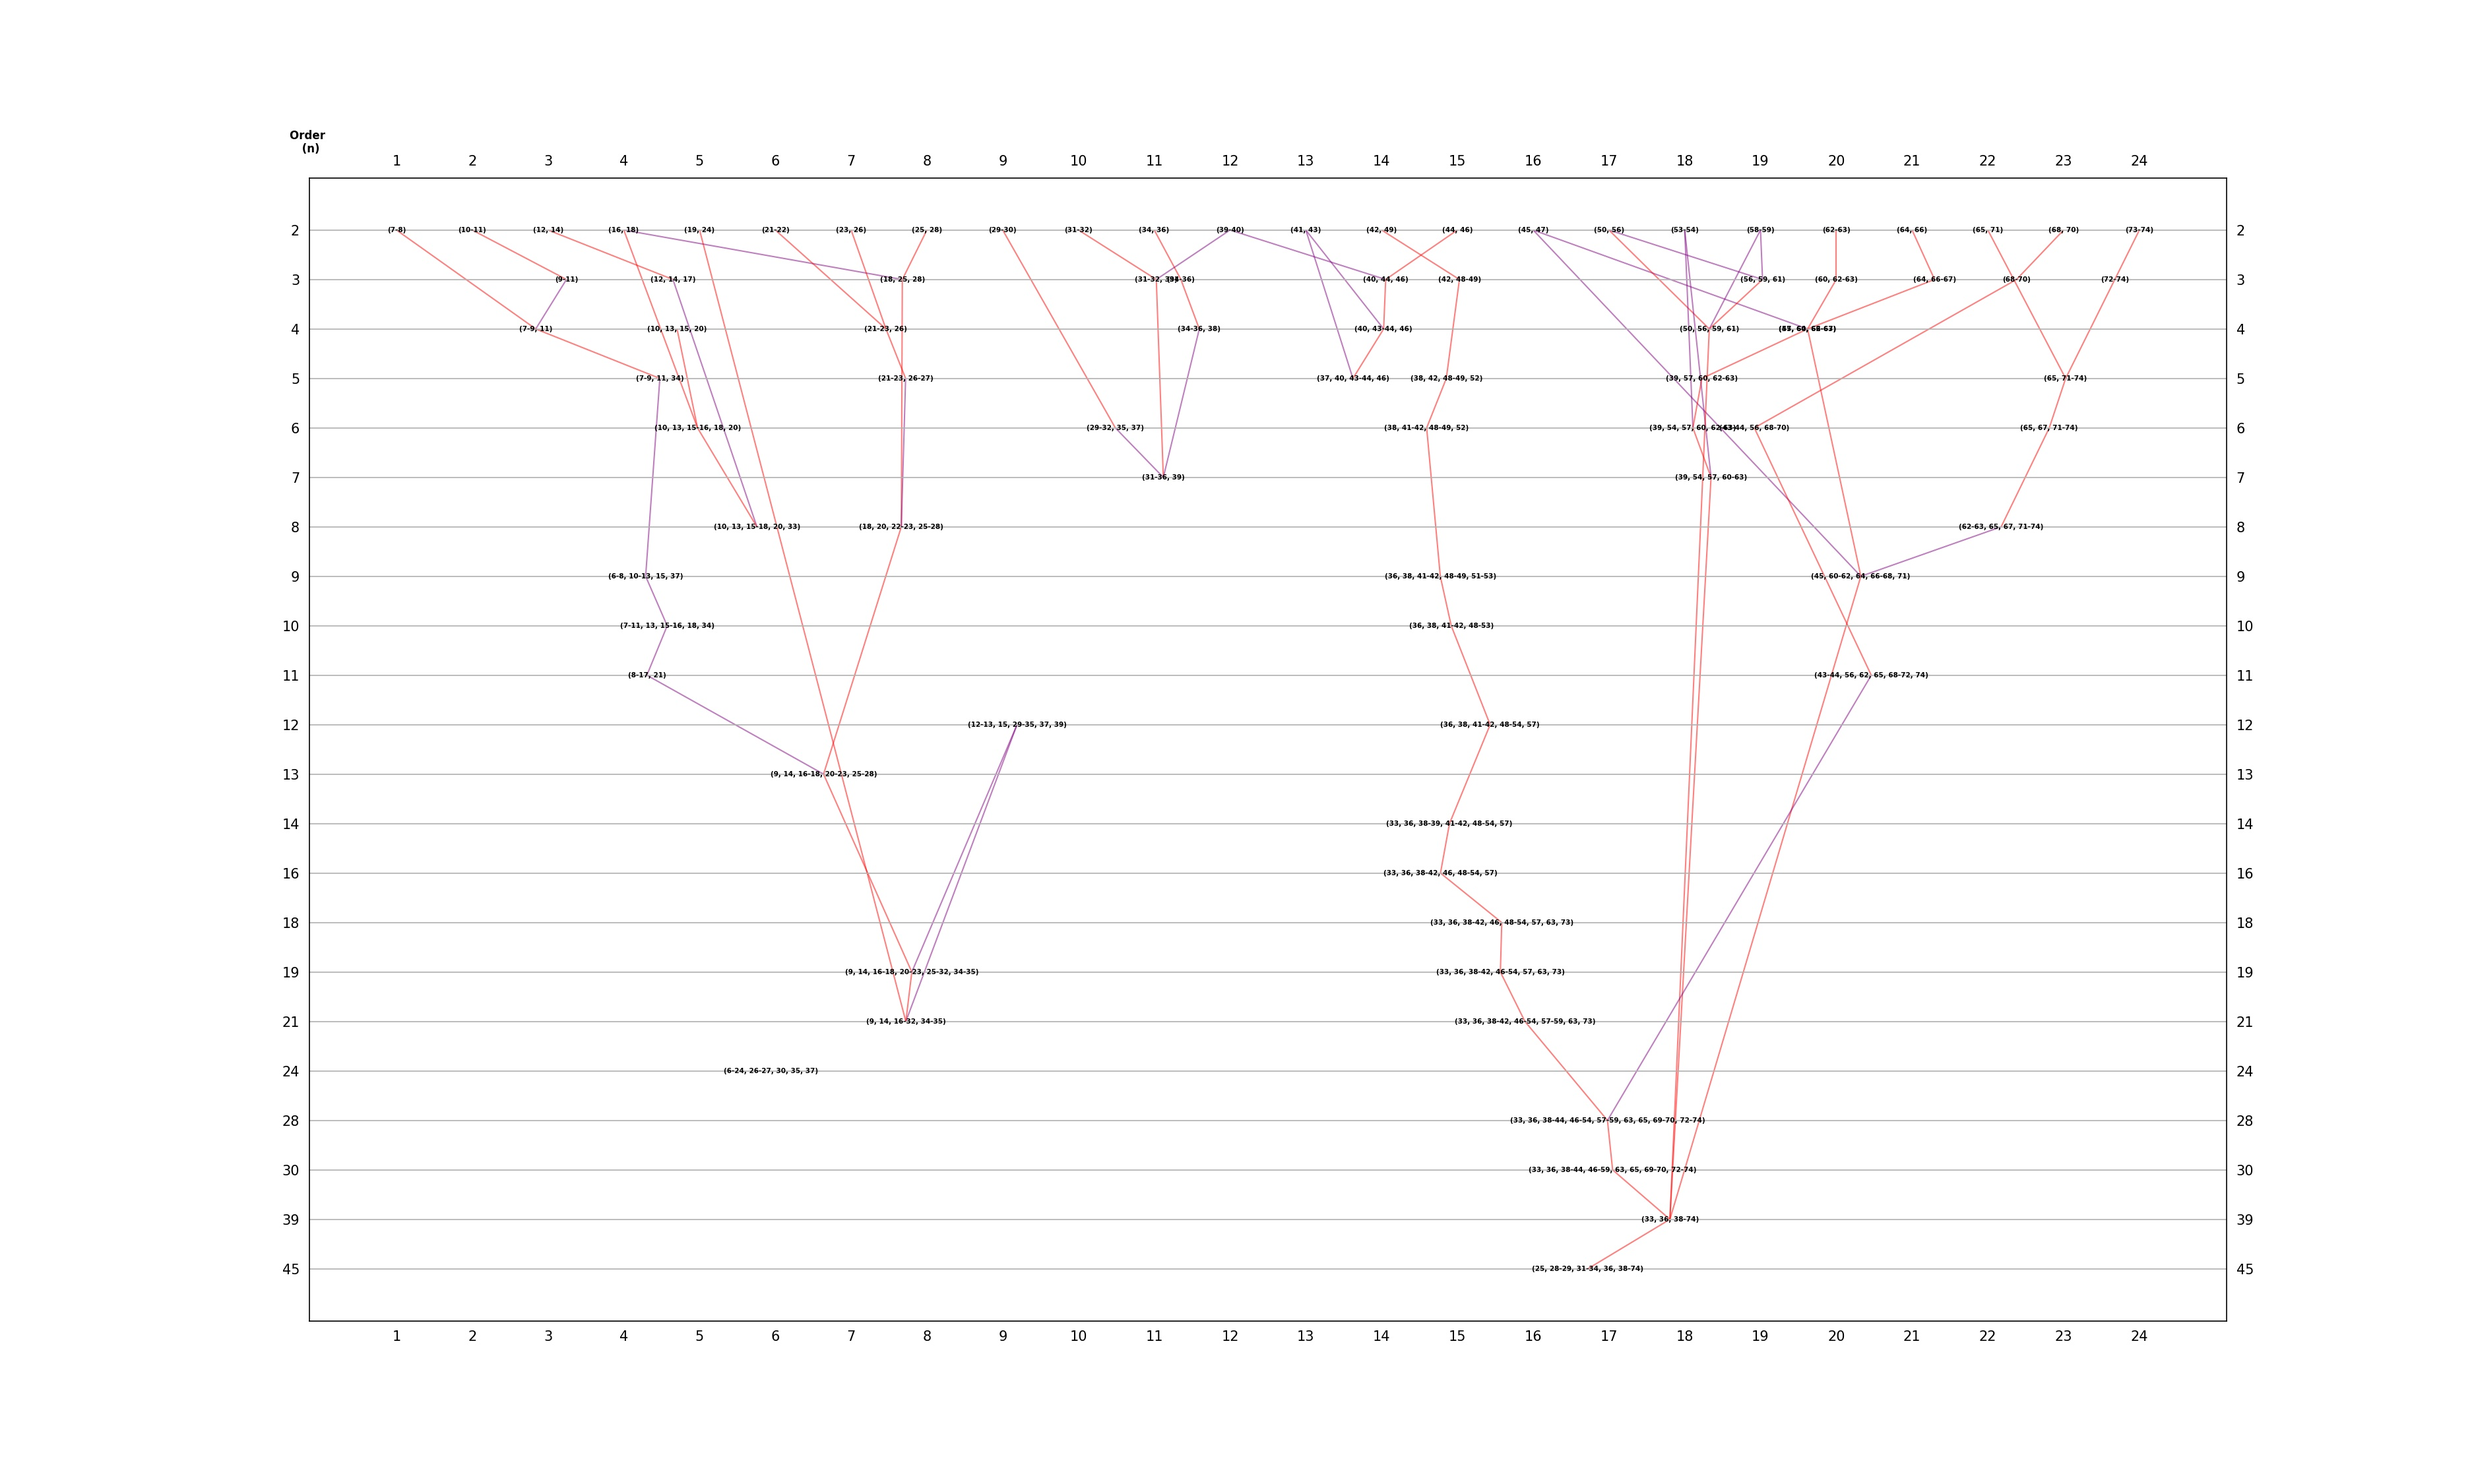
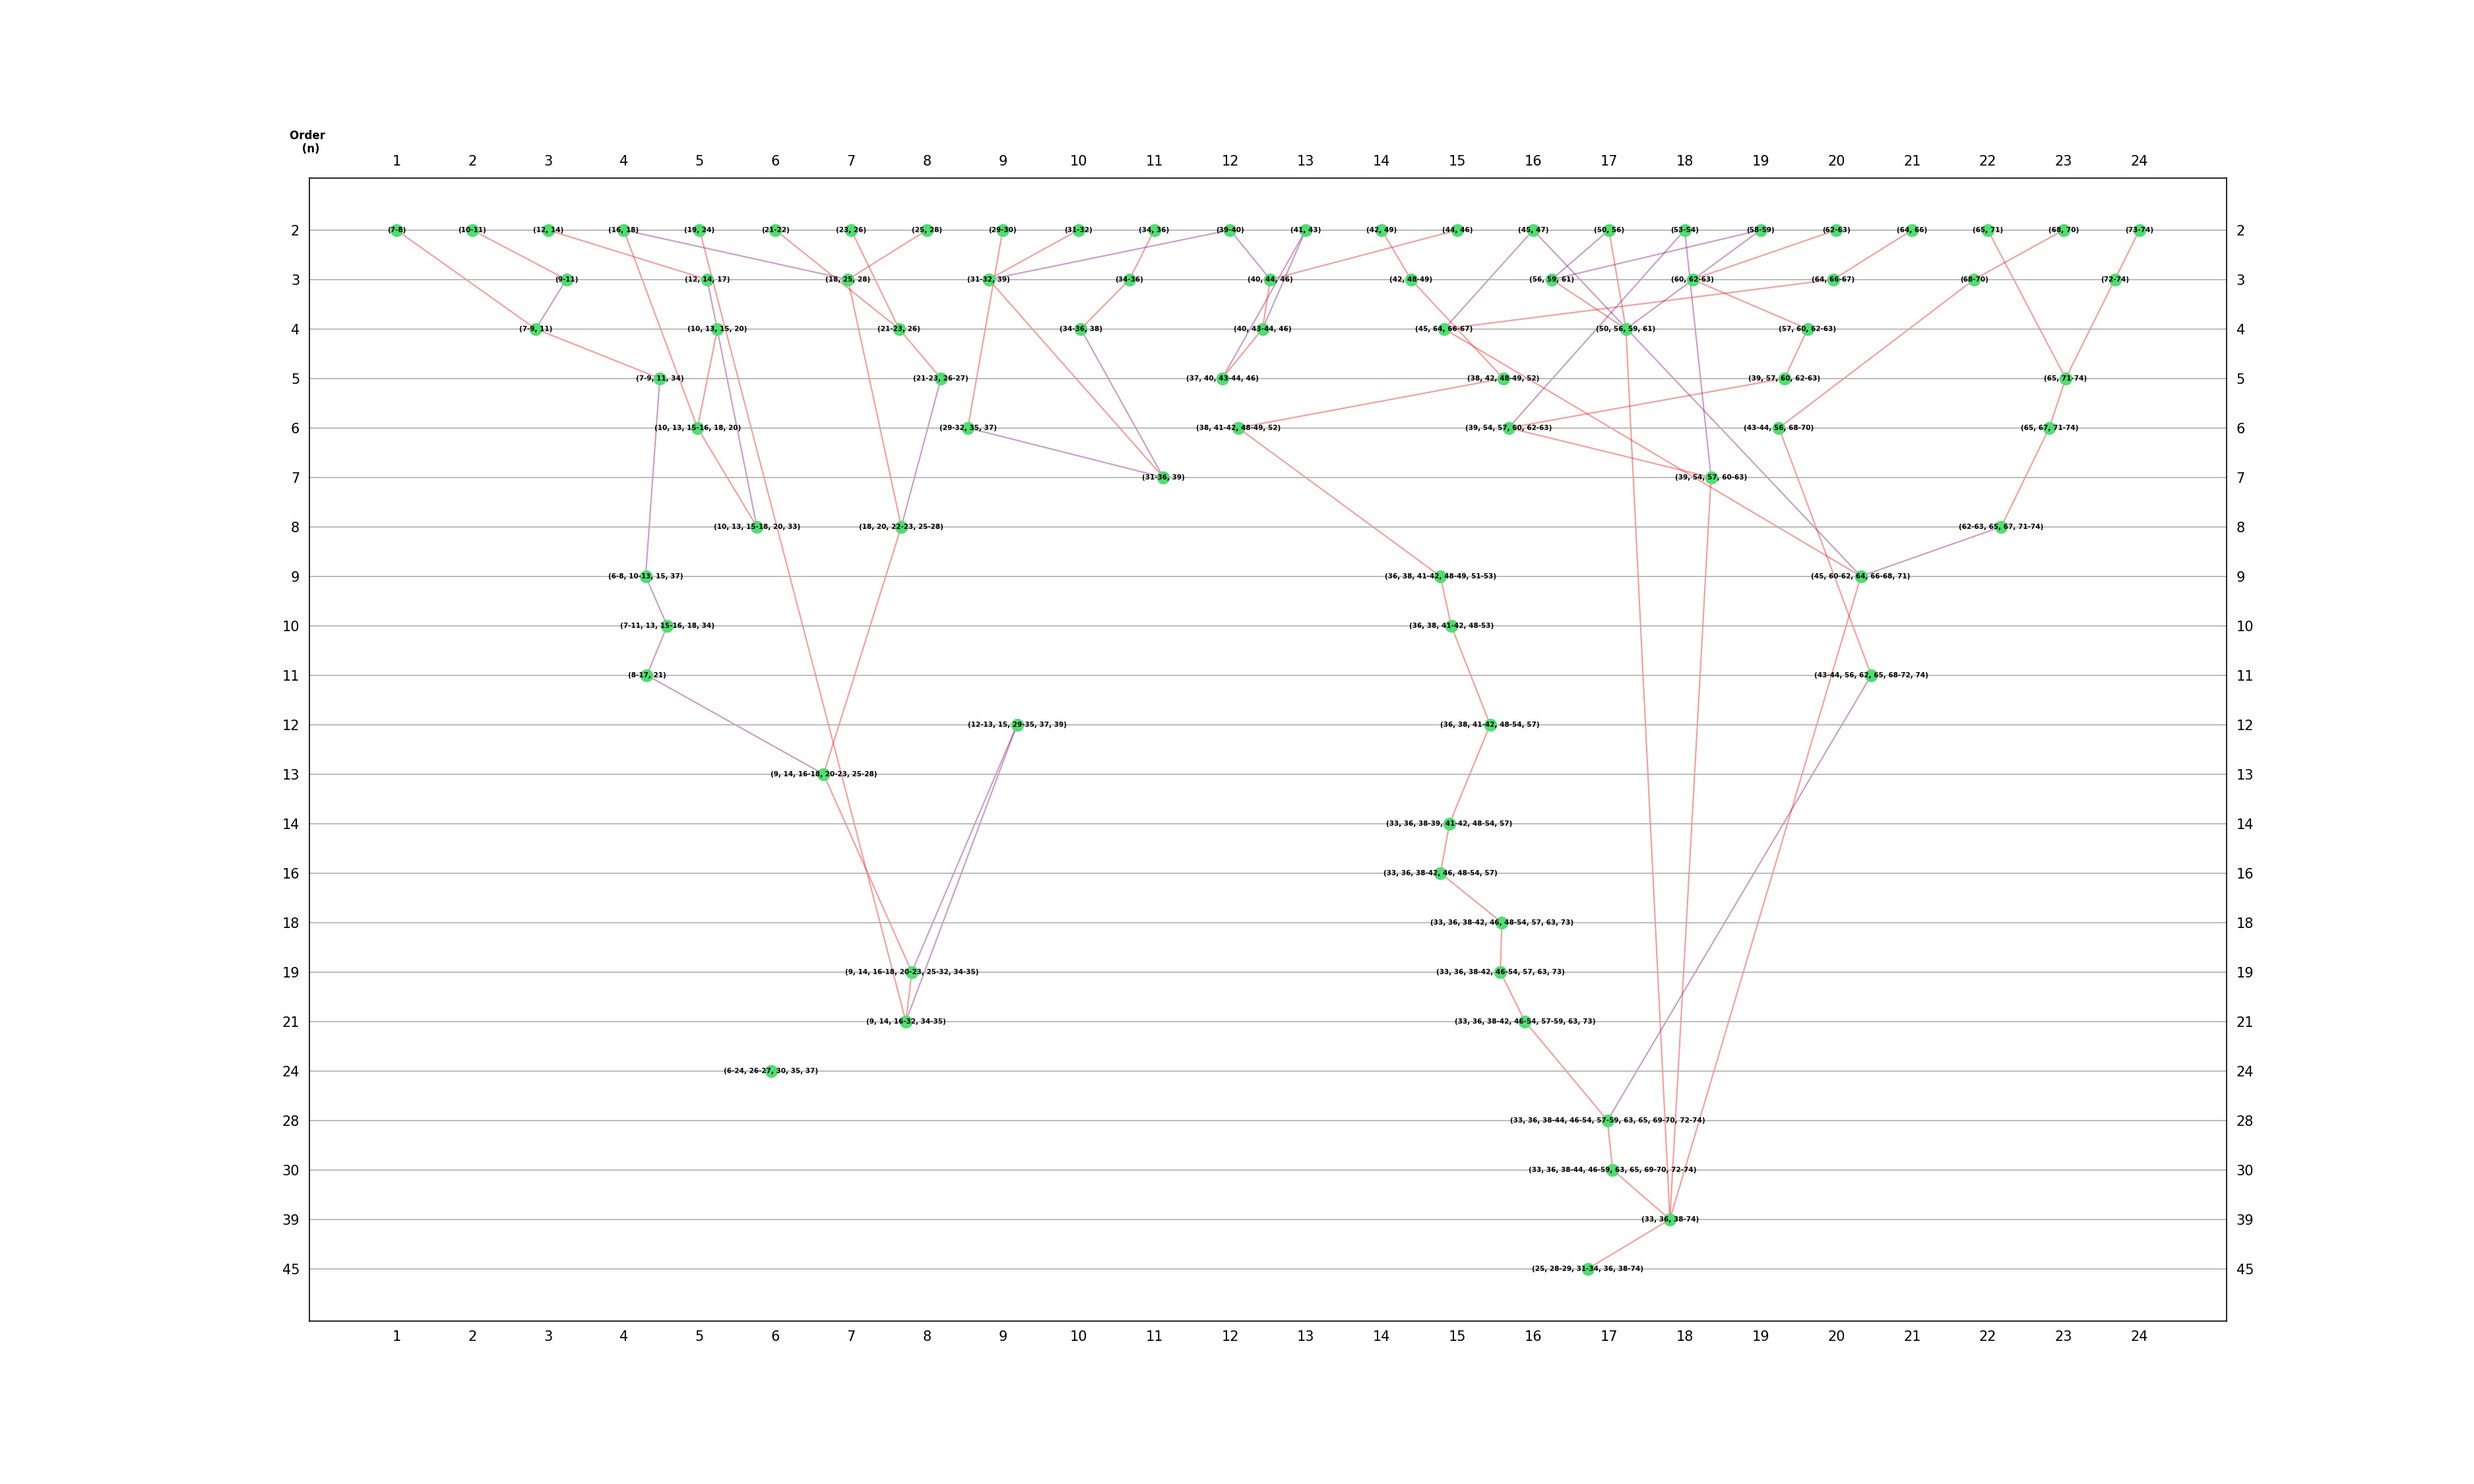
tree spacing fixed

diff --git a/src/tree_assembler.py b/src/tree_assembler.py
@@ -1,6 +1,7 @@
 import csv
 import networkx as nx
 import matplotlib.pyplot as plt
+import numpy as np
 from networkx.drawing.nx_agraph import write_dot, graphviz_layout
 import math
 
@@ -129,11 +130,33 @@ while n_order < max_node_len:
             if len(each) == 2:
                 x_pos += x_increment
             else:
-                str_len = len(get_line_numbers_concat(each))
                 x_pos = sum(each)/len(each)
 
-            pos[get_line_numbers_concat(each)] = (x_pos, y_pos)
+            pos[each] = (x_pos, y_pos)
             xtick_list.append(x_pos)
+
+n_order = 2
+while n_order < max_node_len:
+    n_order += 1
+    value_list = list()
+    temp_dict = {each: values for (each, values) in pos.items() if len(each) == n_order}
+    for v, v1 in temp_dict.values():
+        value_list.append(v)
+
+    if len(value_list) > 5:
+        max_value_list = max(value_list)
+        min_value_list = min(value_list)
+        # Create an evenly spaced vector of x_pos values
+        lin_vector = np.linspace(min_value_list, max_value_list, num=len(value_list))
+        ind = 0
+        for k, v in temp_dict.items():
+            u, m = v
+            temp_dict[k] = (lin_vector[ind], m)
+            ind += 1
+
+    pos.update(temp_dict)
+
+pos = {get_line_numbers_concat(k): v for k, v in pos.items()}
 
 # noinspection PyTypeChecker
 G = nx.relabel_nodes(G, lambda x: get_line_numbers_concat(x))
@@ -148,11 +171,11 @@ ax.set_ylabel('Order \n (n)', rotation=-0, fontsize=8, weight='bold')
 ax.yaxis.set_label_coords(0, 1.02)
 
 # Todo Fix Tick structure
-nx.draw_networkx_nodes(G, pos=pos, ax=ax, node_color='None')
+nx.draw_networkx_nodes(G, pos=pos, ax=ax, node_color='#4ede71', node_size=70)
 nx.draw_networkx_labels(G, pos=pos, ax=ax, font_weight='bold', font_size=5)
 
 colors = [G[u][v]['color'] for u, v in G.edges()]
-nx.draw_networkx_edges(G, pos=pos, ax=ax, edge_color=colors, alpha=.5)
+nx.draw_networkx_edges(G, pos=pos, ax=ax, edge_color=colors, alpha=.4)
 
 plt.grid(True, axis='y')
 
